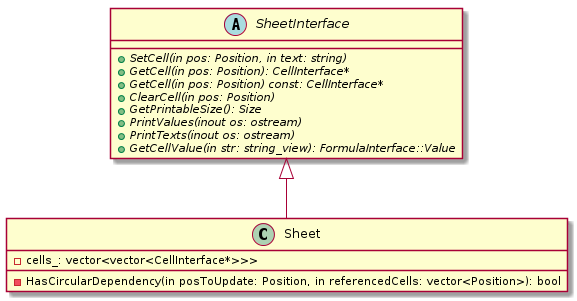
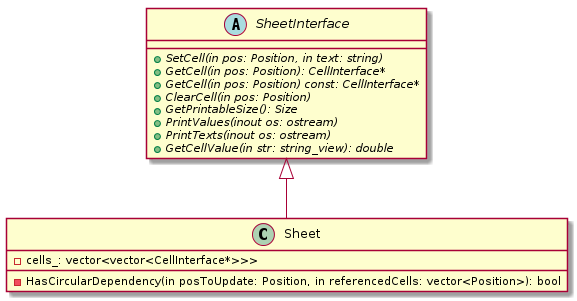
GetCellValue callback returns double

Changed region(s): [[0.1872, 0.0, 0.8111, 0.5681]]

diff --git a/headers/sheet.h b/headers/sheet.h
@@ -31,15 +31,18 @@ class Sheet : public SheetInterface {
   void PrintValues(std::ostream& output) const override;
   void PrintTexts(std::ostream& output) const override;
 
+  // Эта функция будет использоваться в AST, где не обрабатываются ошибки.
+  // Поэтому она возвращает double. Если же double вернуть невозможно, то
+  // бросается исключение. Исключение будет отловлено в formula.Evaluate()
   // - Преобразуем str в позицию
   // - проверяем, валидна ли позиция
   // - получаем значение
   //   если значение double, возвращаем double
   //   если значение string, то пытаемся преобразовать в double,
   //     если получилось, возвращаем double
-  //     если нет - ошибку
-  //   если значение ошибка, то возвращаем ошибку
-  FormulaInterface::Value GetCellValue(std::string_view str) const override;
+  //     если нет - бросаем исключение
+  //   если значение ошибка, то заново бросаем исключение
+  double GetCellValue(std::string_view str) const override;
 
  private:
   // https://neerc.ifmo.ru/wiki/index.php?title=%D0%98%D1%81%D0%BF%D0%BE%D0%BB%D1%8C%D0%B7%D0%BE%D0%B2%D0%B0%D0%BD%D0%B8%D0%B5_%D0%BE%D0%B1%D1%85%D0%BE%D0%B4%D0%B0_%D0%B2_%D0%B3%D0%BB%D1%83%D0%B1%D0%B8%D0%BD%D1%83_%D0%B4%D0%BB%D1%8F_%D0%BF%D0%BE%D0%B8%D1%81%D0%BA%D0%B0_%D1%86%D0%B8%D0%BA%D0%BB%D0%B0

diff --git a/headers/formula.h b/headers/formula.h
@@ -17,8 +17,7 @@ class FormulaInterface {
   // Возвращает вычисленное значение формулы либо ошибку. На данном этапе
   // мы создали только 1 вид ошибки -- деление на 0.
   virtual Value Evaluate(
-      std::function<FormulaInterface::Value(std::string_view)>
-          getCellValueCallback) const = 0;
+      std::function<double(std::string_view)> getCellValueCallback) const = 0;
 
   // Возвращает выражение, которое описывает формулу.
   // Не содержит пробелов и лишних скобок.
@@ -38,8 +37,8 @@ class Formula : public FormulaInterface {
   explicit Formula(std::string expression)
       : ast_(ParseFormulaAST(expression)) {}
 
-  Value Evaluate(std::function<FormulaInterface::Value(std::string_view)>
-                     getCellValueCallback) const override;
+  Value Evaluate(std::function<double(std::string_view)> getCellValueCallback)
+      const override;
 
   std::string GetExpression() const override;
 

diff --git a/headers/cell.h b/headers/cell.h
@@ -48,8 +48,7 @@ class Cell : public CellInterface {
 class Cell::Impl {
  public:
   virtual CellInterface::Value GetValue(
-      std::function<FormulaInterface::Value(std::string_view)>
-          getCellValueCallback) const = 0;
+      std::function<double(std::string_view)> getCellValueCallback) const = 0;
   virtual std::string GetText() const = 0;
   virtual ~Impl() = default;
 
@@ -68,9 +67,8 @@ class Cell::FormulaImpl : public Impl {
   // Сначала проверяем кэш
   // Вычисляем, только если кэш пуст
   // После вычисления обновляем кэш
-  CellInterface::Value GetValue(
-      std::function<FormulaInterface::Value(std::string_view)>
-          getCellValueCallback) const override;
+  CellInterface::Value GetValue(std::function<double(std::string_view)>
+                                    getCellValueCallback) const override;
 
   std::string GetText() const override;
 

diff --git a/headers/FormulaAST.h b/headers/FormulaAST.h
@@ -22,8 +22,8 @@ class FormulaAST {
   FormulaAST& operator=(FormulaAST&&) = default;
   ~FormulaAST();
 
-  double Execute(std::function<FormulaInterface::Value(std::string_view)>
-                     getCellValueCallback) const;
+  double Execute(
+      std::function<double(std::string_view)> getCellValueCallback) const;
   void PrintCells(std::ostream& out) const;
   void Print(std::ostream& out) const;
   void PrintFormula(std::ostream& out) const;
@@ -52,8 +52,7 @@ class Expr {
   virtual void DoPrintFormula(std::ostream& out,
                               ExprPrecedence precedence) const = 0;
   virtual double Evaluate(
-      std::function<FormulaInterface::Value(std::string_view)>
-          getCellValueCallback) const = 0;
+      std::function<double(std::string_view)> getCellValueCallback) const = 0;
 
   // higher is tighter
   virtual ExprPrecedence GetPrecedence() const = 0;

diff --git a/headers/common.h b/headers/common.h
@@ -136,7 +136,7 @@ class SheetInterface {
   virtual void PrintValues(std::ostream& output) const = 0;
   virtual void PrintTexts(std::ostream& output) const = 0;
 
-  FormulaInterface::Value GetCellValue(std::string_view str) const = 0;
+  double GetCellValue(std::string_view str) const = 0;
 };
 
 // Создаёт готовую к работе пустую таблицу.
